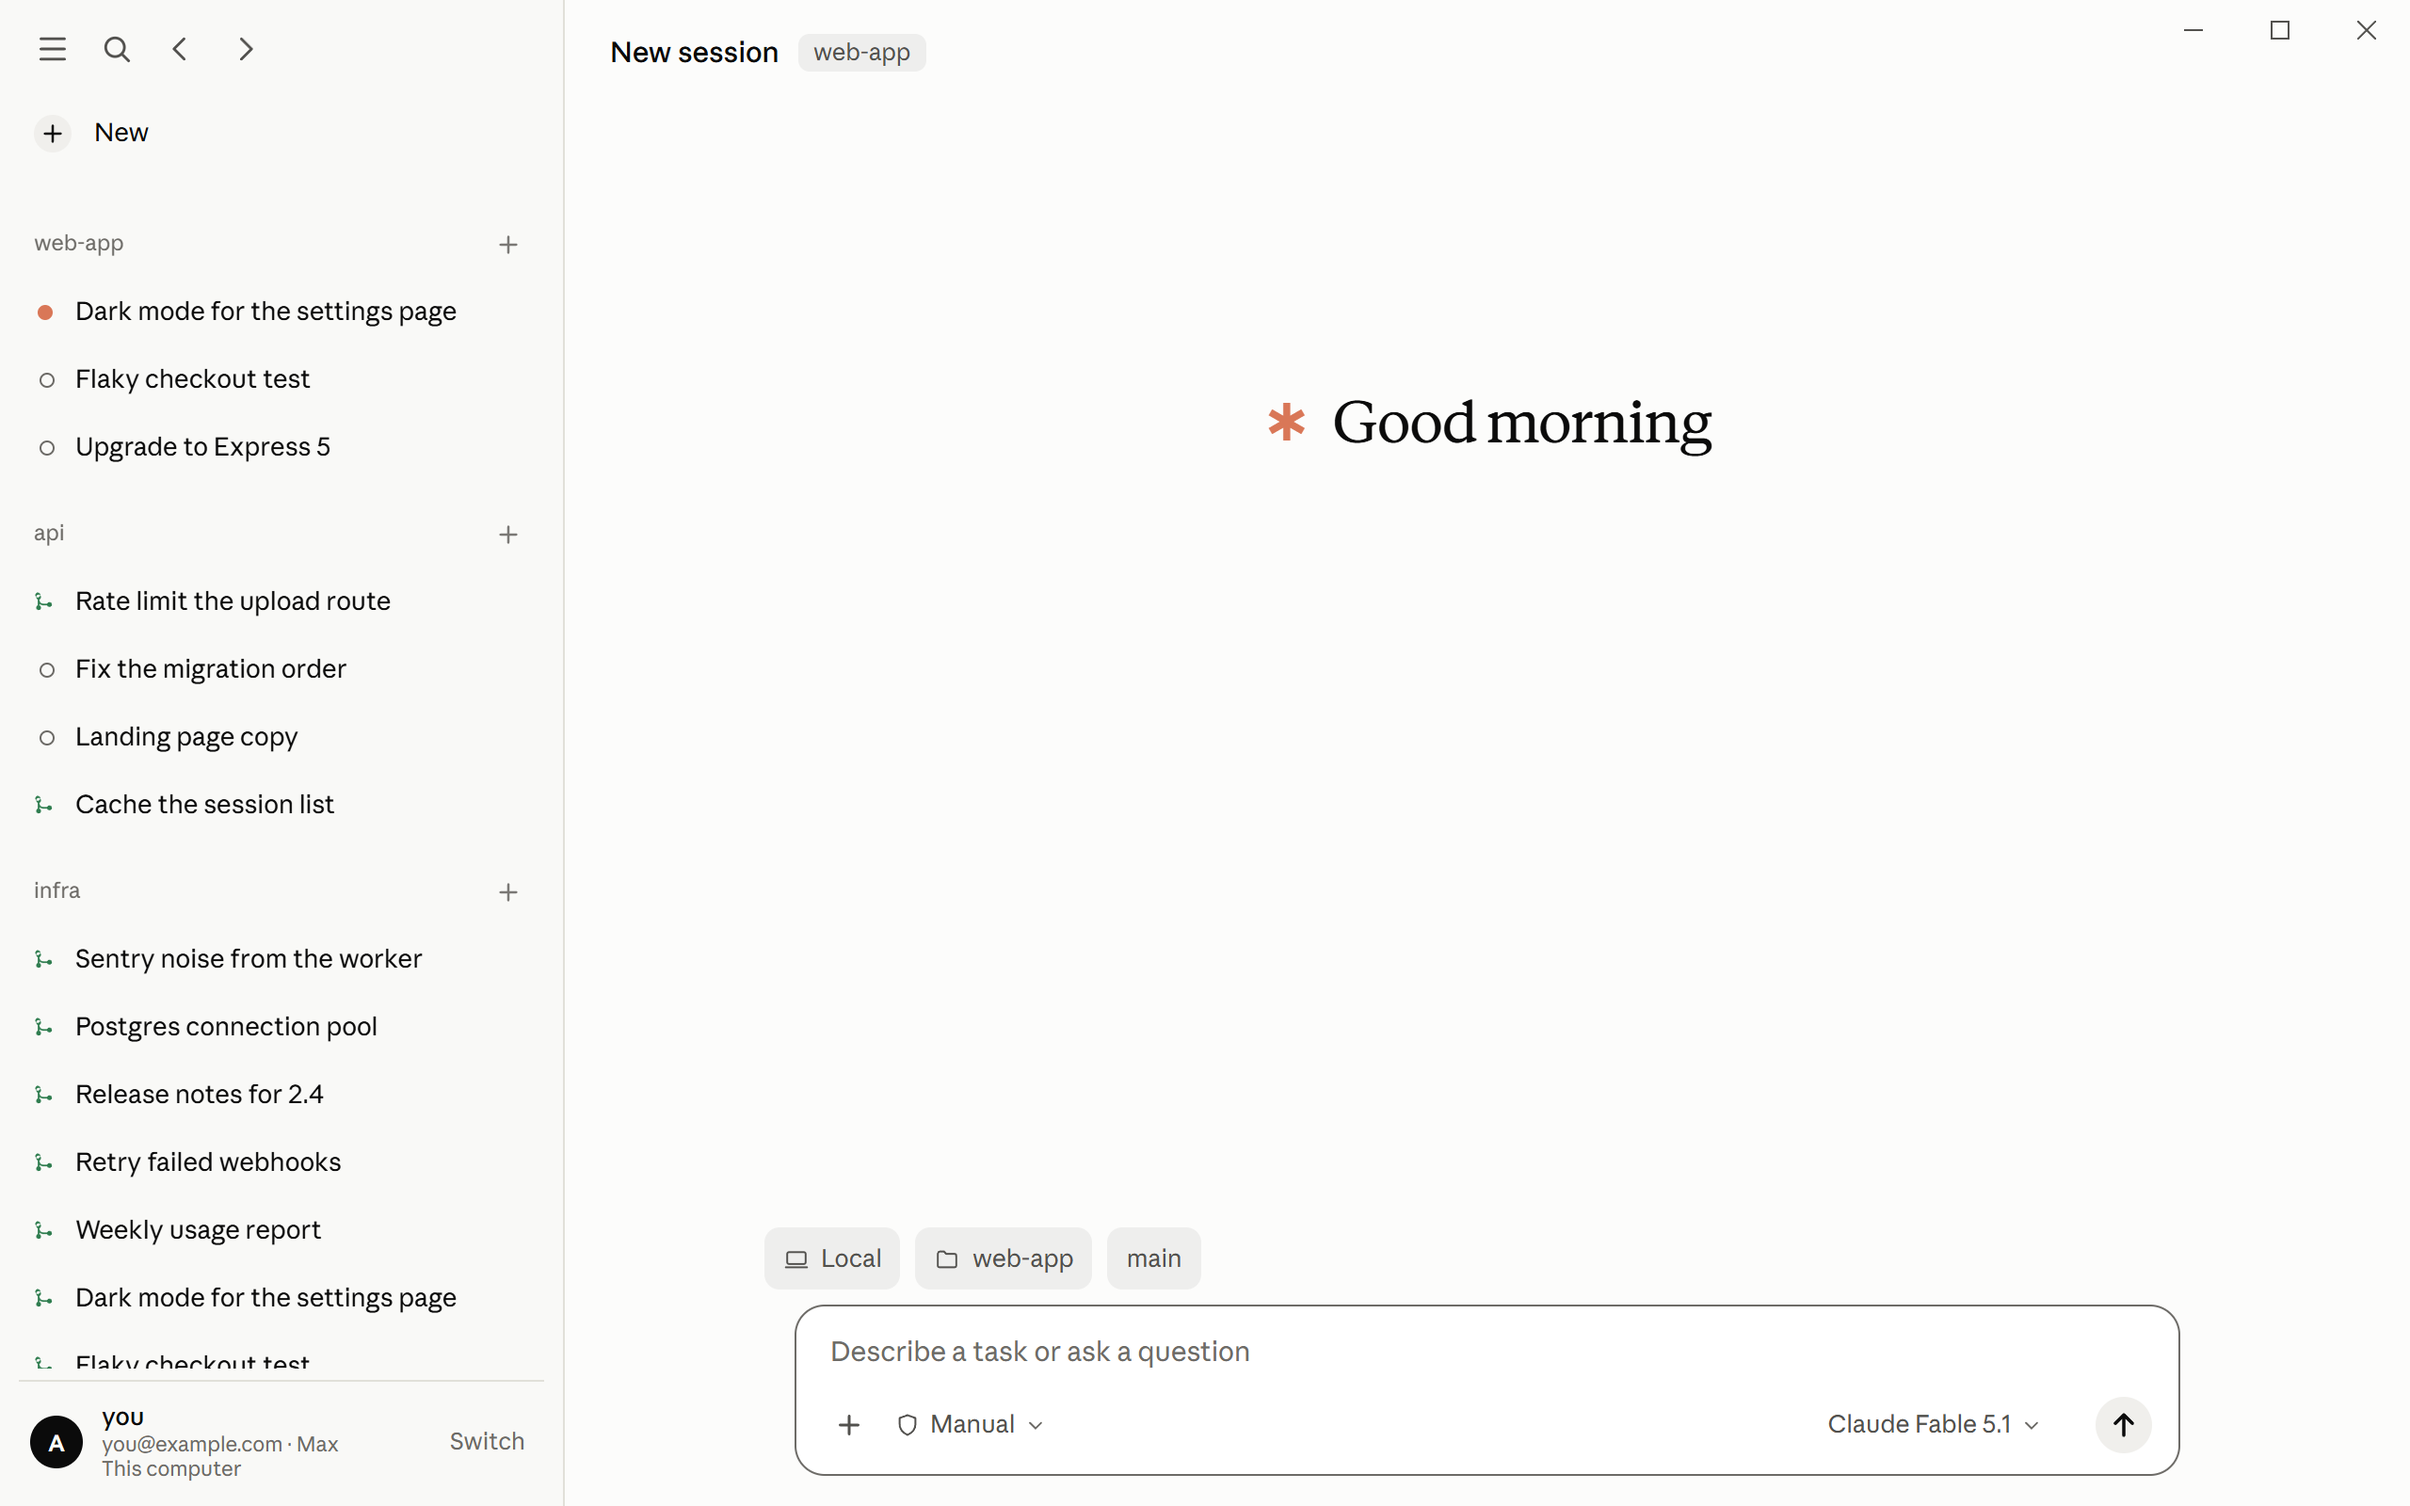
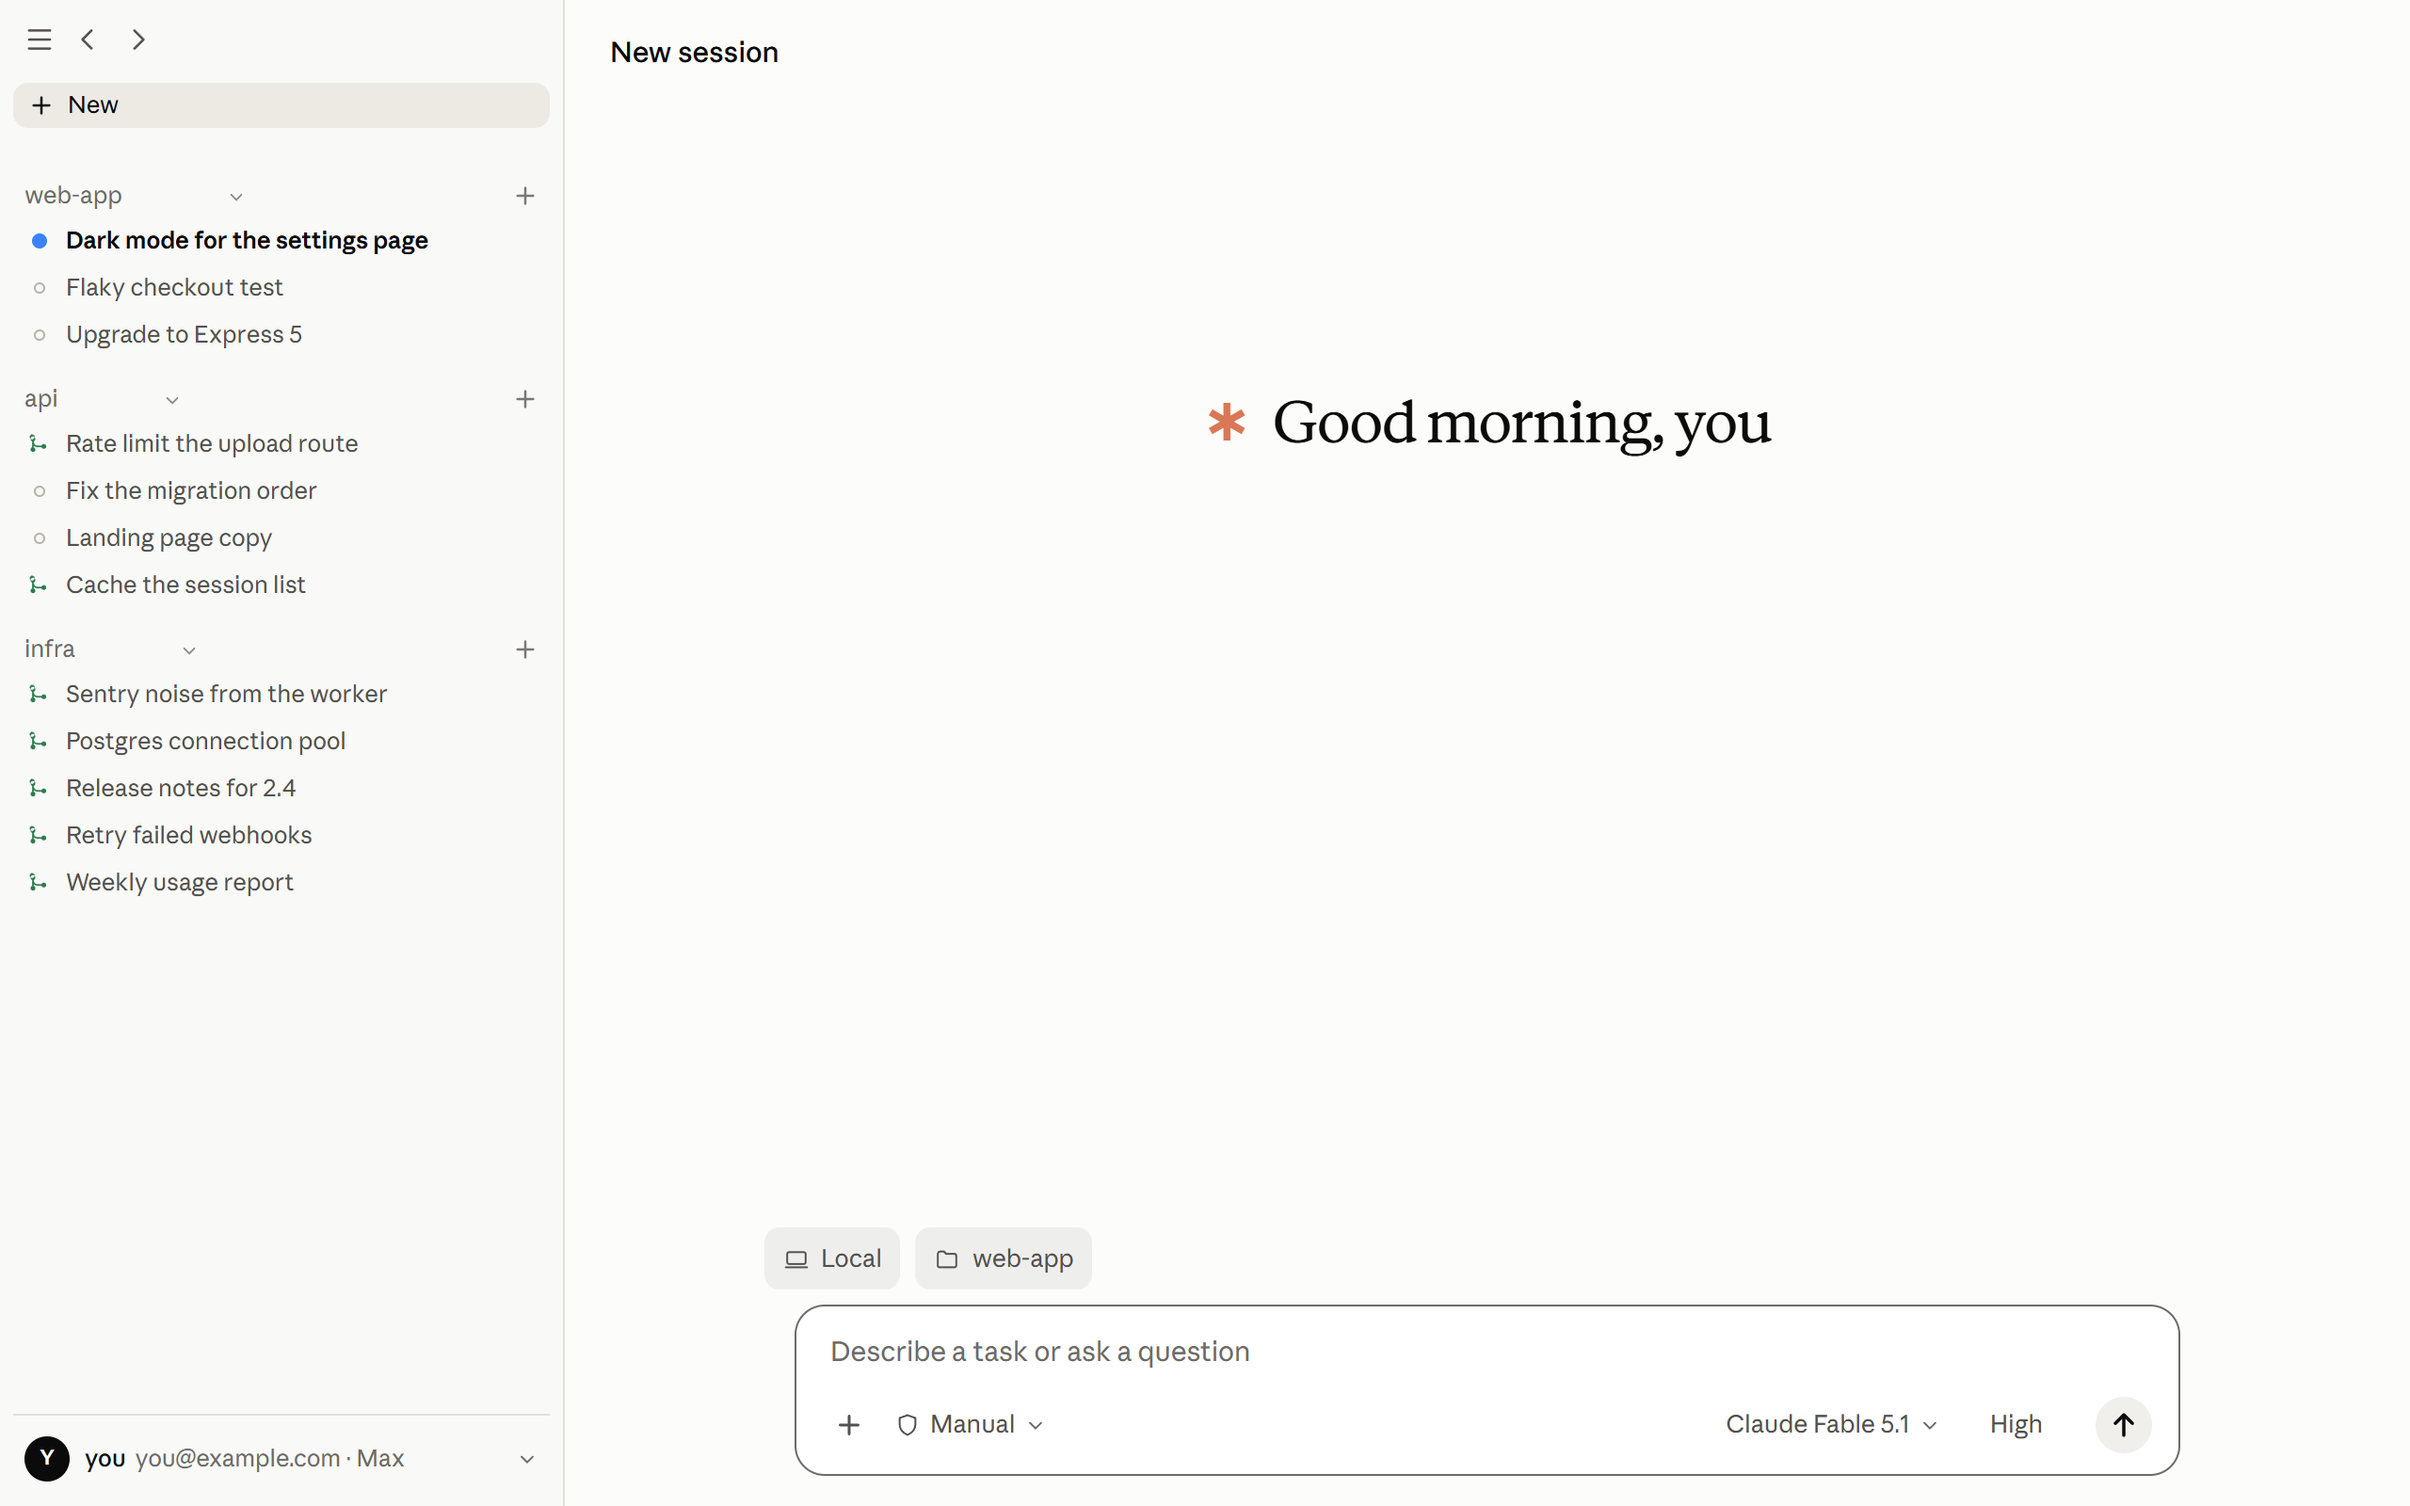
the sidebar has its own greys, one set per theme
The numbers measured off Claude Desktop were measured in the dark, and writing
them into the rules made the light sidebar unreadable: a #c3c2b7 title on a
#f9f9f7 panel, and a New button that came out black. They are named now, and
each theme brings its own set - the dark ones are exactly what was measured.

Found by remaking the README's first picture, which still showed the sidebar as
it was three commits ago. It is the current one now, and the README says three
accounts wherever it used to say two.

diff --git a/public/theme-desktop.css b/public/theme-desktop.css
@@ -20,6 +20,10 @@
   --chip-bg: rgba(11, 11, 11, .06); --code-chip-bg: rgba(142, 38, 38, .10); --code-chip-ink: #8e2626;
   --danger: #8e2626; --success: #2f7d4f;
   --sidebar-w: 300px;
+  /* The sidebar's own greys. They were measured in the dark, so they are named here
+     rather than written into the rules: on a light background #c3c2b7 is a title you
+     cannot read and #353535 is a black bar. */
+  --sb-title: var(--ink-2); --sb-hover: #f0efec; --sb-open: #e6e4dc; --sb-new: #eceae3; --sb-new-hover: #e4e2da; --sb-ring: #b6b4aa;
 }
 @media (prefers-color-scheme: dark) {
   :root:not([data-theme="light"]) {
@@ -30,6 +34,7 @@
     --chip-bg: #2d2d2d; --code-chip-bg: #3f2f2f; --code-chip-ink: #ec7e7e;
     --danger: #ec7e7e; --success: #7ec48f;
     --shadow: 0 1px 2px rgba(0, 0, 0, .4), 0 4px 16px rgba(0, 0, 0, .35);
+    --sb-title: #c3c2b7; --sb-hover: #1b1b1b; --sb-open: #232323; --sb-new: #353535; --sb-new-hover: #3f3f3f; --sb-ring: #4d4c49;
   }
 }
 :root[data-theme="dark"] {
@@ -40,6 +45,7 @@
   --chip-bg: #2d2d2d; --code-chip-bg: #3f2f2f; --code-chip-ink: #ec7e7e;
   --danger: #ec7e7e; --success: #7ec48f;
   --shadow: 0 1px 2px rgba(0, 0, 0, .4), 0 4px 16px rgba(0, 0, 0, .35);
+  --sb-title: #c3c2b7; --sb-hover: #1b1b1b; --sb-open: #232323; --sb-new: #353535; --sb-new-hover: #3f3f3f; --sb-ring: #4d4c49;
 }
 body { font-size: 14px; }
 
@@ -759,8 +765,8 @@ audio.lb-media { width: min(520px, 90vw); height: auto; }
   /* Search and filter moved to the project rows; the strip is the toggle and the arrows. */
   .sidebar-top #search-btn, .sidebar-top #filter-btn { display: none; }
   /* New is a filled row the width of the list, not a circle with a word beside it. */
-  .new-chat { height: 24px; padding: 0 7px; gap: 6px; font-size: 12.5px; border-radius: 8px; background: #353535; color: var(--ink); }
-  .new-chat:hover { background: #3f3f3f; }
+  .new-chat { height: 24px; padding: 0 7px; gap: 6px; font-size: 12.5px; border-radius: 8px; background: var(--sb-new); color: var(--ink); }
+  .new-chat:hover { background: var(--sb-new-hover); }
   .new-chat-icon { width: 16px; height: 16px; border-radius: 0; background: none; color: var(--ink); }
   .new-chat-icon svg { width: 14px; height: 14px; }
   .project-group { margin-top: 10px; }
@@ -768,10 +774,10 @@ audio.lb-media { width: min(520px, 90vw); height: auto; }
   .project-group > summary { height: 24px; padding: 0 6px; font-size: 12.5px; gap: 5px; }
   .project-group > summary .chev { display: inline-block; order: 2; width: 11px; height: 11px; opacity: .8; }
   .project-group > summary .proj-add { width: 20px; height: 20px; order: 3; }
-  .session-item { height: 24px; padding: 0 6px 0 28px; margin-bottom: 1px; font-size: 12.5px; border-radius: 8px; color: #c3c2b7; }
-  .session-item::before { box-sizing: border-box; inset-inline-start: 11px; width: 6px; height: 6px; border-width: 1px; border-color: #4d4c49; } /* Claude draws a 6px ring with a 1px stroke, not a 9px one */
-  .session-item:hover { background: #1b1b1b; }
-  .session-item.active { background: #232323; color: var(--ink); }
+  .session-item { height: 24px; padding: 0 6px 0 28px; margin-bottom: 1px; font-size: 12.5px; border-radius: 8px; color: var(--sb-title); }
+  .session-item::before { box-sizing: border-box; inset-inline-start: 11px; width: 6px; height: 6px; border-width: 1px; border-color: var(--sb-ring); } /* Claude draws a 6px ring with a 1px stroke, not a 9px one */
+  .session-item:hover { background: var(--sb-hover); }
+  .session-item.active { background: var(--sb-open); color: var(--ink); }
   /* Something happened in it while you were elsewhere: the title goes white. The dot
      says which kind, the colour says there is one at all — one glance, two answers. */
   .session-item.unread, .session-item.needs-input, .session-item.failed { color: var(--ink); }
@@ -793,7 +799,7 @@ audio.lb-media { width: min(520px, 90vw); height: auto; }
    still does. */
 .sidebar-bottom { position: relative; display: block; padding: 6px 0 0; } /* the menu opens upward from this row, so it is the box it measures against */
 .account-row { display: flex; align-items: center; gap: 8px; width: 100%; padding: 5px 6px; border: 0; border-radius: 8px; background: none; color: var(--ink); font: inherit; text-align: start; cursor: pointer; }
-.account-row:hover { background: #1b1b1b; }
+.account-row:hover { background: var(--sb-hover); }
 .account-row .sidebar-user { display: flex; align-items: baseline; gap: 5px; min-width: 0; flex: 1; }
 .account-row .sidebar-user-name { font-size: 12.5px; font-weight: 500; white-space: nowrap; }
 .account-row .sidebar-user-plan { font-size: 12.5px; color: var(--ink-3); white-space: nowrap; overflow: hidden; text-overflow: ellipsis; }

diff --git a/README.md b/README.md
@@ -5,9 +5,9 @@
 **One set of sessions. Any of your Claude accounts. Your machine, not a relay.**
 
 A self-hosted desktop app and web client for the Claude Code sessions already on
-your computer. Switch which account answers — this machine's login, or a token
-you paste from another — without leaving the session, and reach all of it from
-your phone over your own network.
+your computer. Switch which account answers — this machine's login, a token you
+paste from another, or any provider that answers the Anthropic API — without
+leaving the session, and reach all of it from your phone over your own network.
 
 [![License: MIT](https://img.shields.io/badge/License-MIT-black.svg)](LICENSE)
 [![Windows, macOS, Linux](https://img.shields.io/badge/Windows%20%C2%B7%20macOS%20%C2%B7%20Linux-black.svg)](#install)
@@ -31,9 +31,10 @@ Claude Desktop is good, and it can already reach your machine from elsewhere
 through Remote Control. Three things sent me here anyway.
 
 **One session, whichever account you like.** Desktop is signed in as one
-account. Here there are two, side by side: this computer's `claude login`, and a
+account. Here there are three, side by side: this computer's `claude login`, a
 token you paste — `claude setup-token` output from any other account, or a
-Console key. You switch between them from the sidebar at any moment, and the
+Console key — and any other provider that answers the Anthropic API, which is an
+address and a key. You switch between them from Settings at any moment, and the
 sessions do not care: the same conversation, the same files, answered by
 whichever account you picked, billed to that account's plan. If you have a
 personal subscription and a work one, or someone hands you a token for an
